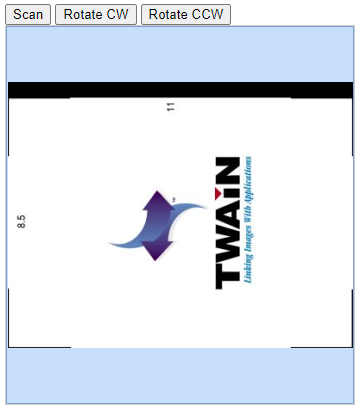
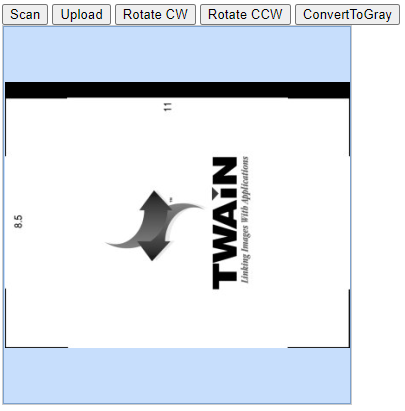
EndToEnd screenshots

Changed region(s): [[0.0, 0.0, 1.0, 0.9976], [0.2758, 0.3814, 0.7047, 0.7042]]

diff --git a/getstarted/editing.md b/getstarted/editing.md
@@ -14,52 +14,9 @@ permalink: /getstarted/editing.html
 <div class='blockquote-note'></div>
 > This article is part of our HelloWorld series. If you have not already reviewed HelloWorld, please start [here]({{site.getstarted}}helloworld.html)
 
-DWT offers a number of ways to manipulate images before exporting the images to a file. These include but are not limited to rotation, cutting, and resizing. For this example, you will be rotating an image and converting it to grayscale.
+DWT offers a number of ways to manipulate images before exporting the images to a file. These include but are not limited to rotation, cutting, and resizing. For this example, you will be converting an image to grayscale, and rotating the image.
 
 <!-- For the quick guide on available APIs, please see [ImageEditing]({{site.indepth}}features/edit.html){:target="_blank" rel="noreferrer noopener"} -->
-
-## Rotating images
-
-### Add Rotate buttons in HTML
-
-```html
-<input type="button" value="Rotate CW" onclick="RotateCW();" />
-<input type="button" value="Rotate CCW" onclick="RotateCCW();" />
-```
-
-### Add functions to perform rotation on the current image
-
-```js
-function RotateCW(){
-    DWObject.RotateRight(DWObject.CurrentImageIndexInBuffer);
-}
-function RotateCCW(){
-    DWObject.RotateLeft(DWObject.CurrentImageIndexInBuffer);
-}
-```
-
-Links to API Reference:
-
-- [`RotateRight()`]({{site.info}}api/WebTwain_Edit.html#rotateright){:target="_blank" rel="noreferrer noopener"}
-- [`RotateLeft()`]({{site.info}}api/WebTwain_Edit.html#rotateleft){:target="_blank" rel="noreferrer noopener"}
-- [`CurrentImageIndexInBuffer`]({{site.info}}api/WebTwain_Buffer.html#currentimageindexinbuffer){:target="_blank" rel="noreferrer noopener"}
-
-### Test out the rotation
-
-Using your new buttons, scan an image and use your new buttons to rotate the image.
-
-The scan:
-
-![HelloWorldEditRotate1]({{site.assets}}imgs/HelloWorldEditRotate1.png)
-
-Rotating the original scan once using the RotateCW button:
-
-![HelloWorldEditRotate2]({{site.assets}}imgs/HelloWorldEditRotate2.png)
-
-Rotating the original scan once using the RotateCCW button:
-
-![HelloWorldEditRotate3]({{site.assets}}imgs/HelloWorldEditRotate3.png)
-
 
 ## Converting image to grayscale
 
@@ -67,20 +24,6 @@ Rotating the original scan once using the RotateCCW button:
 ```html
 <input type="button" value="ConvertToGray" onclick="ConvertToGray();" />
 ```
-
-### Add the function to do the colour conversion
-
-```js
-function ConvertToGray(){
-    DWObject.ConvertToGrayScale(DWObject.CurrentImageIndexInBuffer);
-}
-```
-
-Links to API Reference:
-
-- [`ConvertToGrayScale()`]({{site.info}}api/WebTwain_Edit.html#converttograyscale){:target="_blank" rel="noreferrer noopener"}
-- [`CurrentImageIndexInBuffer`]({{site.info}}api/WebTwain_Buffer.html#currentimageindexinbuffer){:target="_blank" rel="noreferrer noopener"}
-
 
 ### Change the scan setting
 
@@ -114,15 +57,44 @@ Links to API Reference:
 - [`Resolution`]({{site.info}}api/WebTwain_Acquire.html#resolution){:target="_blank" rel="noreferrer noopener"}
 - [`CloseSourceAsync()`]({{site.info}}api/WebTwain_Acquire.html#closesourceasync){:target="_blank" rel="noreferrer noopener"}
 
-### Test out the colour conversion
+### Add the function to do the colour conversion
 
-This is the scan after changing the `PixelType` to `TWPT_RGB`:
+```js
+function ConvertToGray(){
+    DWObject.ConvertToGrayScale(DWObject.CurrentImageIndexInBuffer);
+}
+```
 
-![HelloWorldEditGrayscale1]({{site.assets}}imgs/HelloWorldEditGrayscale1.png)
+Links to API Reference:
 
-Click the ConvertToGray button and the image will change to grayscale:
+- [`ConvertToGrayScale()`]({{site.info}}api/WebTwain_Edit.html#converttograyscale){:target="_blank" rel="noreferrer noopener"}
+- [`CurrentImageIndexInBuffer`]({{site.info}}api/WebTwain_Buffer.html#currentimageindexinbuffer){:target="_blank" rel="noreferrer noopener"}
 
-![HelloWorldEditGrayscale2]({{site.assets}}imgs/HelloWorldEditGrayscale2.png)
+## Rotating images
+
+### Add Rotate buttons in HTML
+
+```html
+<input type="button" value="Rotate CW" onclick="RotateCW();" />
+<input type="button" value="Rotate CCW" onclick="RotateCCW();" />
+```
+
+### Add functions to perform rotation on the current image
+
+```js
+function RotateCW(){
+    DWObject.RotateRight(DWObject.CurrentImageIndexInBuffer);
+}
+function RotateCCW(){
+    DWObject.RotateLeft(DWObject.CurrentImageIndexInBuffer);
+}
+```
+
+Links to API Reference:
+
+- [`RotateRight()`]({{site.info}}api/WebTwain_Edit.html#rotateright){:target="_blank" rel="noreferrer noopener"}
+- [`RotateLeft()`]({{site.info}}api/WebTwain_Edit.html#rotateleft){:target="_blank" rel="noreferrer noopener"}
+- [`CurrentImageIndexInBuffer`]({{site.info}}api/WebTwain_Buffer.html#currentimageindexinbuffer){:target="_blank" rel="noreferrer noopener"}
 
 ## Review the completed code
 
@@ -137,9 +109,11 @@ Click the ConvertToGray button and the image will change to grayscale:
 
 <body>
     <input type="button" value="Scan" onclick="AcquireImage();" />
+    <input type="button" value="Upload" onclick="Upload();" />
     <input type="button" value="Rotate CW" onclick="RotateCW();" />
     <input type="button" value="Rotate CCW" onclick="RotateCCW();" />
     <input type="button" value="ConvertToGray" onclick="ConvertToGray();" />
+
 
     <div id="dwtcontrolContainer"></div>
 
@@ -153,16 +127,34 @@ Click the ConvertToGray button and the image will change to grayscale:
         function AcquireImage() {
             if (DWObject) {
                 DWObject.SelectSourceAsync()
-                    .then(() => DWObject.AcquireImageAsync({
-                        IfShowUI: false,
+                    .then(() => DWObject.AcquireImageAsync({ 
                         IfDisableSourceAfterAcquire: true,
+                        IfShowUI: false,
                         PixelType: Dynamsoft.DWT.EnumDWT_PixelType.TWPT_RGB,
                         Resolution: 150,
-                    }))
+                        }))
                     .then(result => console.log(result))
                     .catch(exp => console.error(exp.message))
                     .finally(() => DWObject.CloseSourceAsync().catch(e => console.error(e)));
             }
+        }
+        function Upload() {
+            if (DWObject && DWObject.HowManyImagesInBuffer > 0) {
+                var strUrl = "https://demo.dynamsoft.com/sample-uploads/";
+                var aryIndex = [DWObject.CurrentImageIndexInBuffer];
+                DWObject.HTTPUpload(strUrl, aryIndex, Dynamsoft.DWT.EnumDWT_ImageType.IT_PNG,
+                    Dynamsoft.DWT.EnumDWT_UploadDataFormat.Binary, "WebTWAINImage.png", onUploadSuccess, onUploadFailure);
+            } else {
+                alert("There is no image in buffer.");
+            }
+        }
+
+        function onUploadSuccess() {
+            alert('Upload successful');
+        }
+
+        function onUploadFailure(errorCode, errorString, sHttpResponse) {
+            alert(sHttpResponse.length > 0 ? sHttpResponse : errorString);
         }
 
         function RotateCW(){
@@ -196,6 +188,39 @@ Links to API Reference:
 - [`CurrentImageIndexInBuffer`]({{site.info}}api/WebTwain_Buffer.html#currentimageindexinbuffer){:target="_blank" rel="noreferrer noopener"}
 
 ## Run the application
+
+### Open the application in your browser
+
+![HelloWorldEditGrayscale1]({{site.assets}}imgs/HelloWorldEdit.png)
+
+### Press the Scan button
+
+Since the `PixelType` was changed to `TWPT_RGB`, the recieved image is in colour.
+
+![HelloWorldEditGrayscale1]({{site.assets}}imgs/HelloWorldEditGrayscale1.png)
+
+### Convert the image to grayscale
+
+
+Click the ConvertToGray button and the image will change to grayscale:
+
+![HelloWorldEditGrayscale2]({{site.assets}}imgs/HelloWorldEditGrayscale2.png)
+
+### Rotate the image
+
+Using the Rotate CW and Rotate CCW buttons, rotate the image.
+
+<!-- The scan:
+
+![HelloWorldEditRotate1]({{site.assets}}imgs/HelloWorldEditRotate1.png) -->
+
+* Rotating the original converted grayscale image once using the RotateCW button:
+
+![HelloWorldEditRotate2]({{site.assets}}imgs/HelloWorldEditRotate2.png)
+
+* Rotating the original converted grayscale image once using the RotateCCW button:
+
+![HelloWorldEditRotate3]({{site.assets}}imgs/HelloWorldEditRotate3.png)
 
 # Previous Article
 

diff --git a/getstarted/helloworld.md b/getstarted/helloworld.md
@@ -100,8 +100,8 @@ function AcquireImage() {
 Links to API Reference:
 
 - [`SelectSourceAsync()`]({{site.info}}api/WebTwain_Acquire.html#selectsourceasync){:target="_blank" rel="noreferrer noopener"}
-- [`IfDisableSourceAfterAcquire`]({{site.info}}api/WebTwain_Acquire.html#ifdisablesourceafteracquire){:target="_blank" rel="noreferrer noopener"}
 - [`AcquireImageAsync()`]({{site.info}}api/WebTwain_Acquire.html#acquireimageasync){:target="_blank" rel="noreferrer noopener"}
+- [`IfDisableSourceAfterAcquire`]({{site.info}}api/WebTwain_Acquire.html#ifdisablesourceafteracquire){:target="_blank" rel="noreferrer noopener"}
 - [`CloseSourceAsync()`]({{site.info}}api/WebTwain_Acquire.html#closesourceasync){:target="_blank" rel="noreferrer noopener"}
 
 ## Review the code
@@ -148,25 +148,32 @@ At this point, our HelloWorld code should look like this:
 
 ## Run the HelloWorld application
 
-* Open the page in your browser
+### Open the page in your browser
 
-  ![Build-the-Hello-World-Scan-Page-3]({{site.assets}}imgs/Build-the-Hello-World-Scan-Page-3.png)
+![Build-the-Hello-World-Scan-Page-3]({{site.assets}}imgs/Build-the-Hello-World-Scan-Page-3.png)
 
-  > If you see a license notice, please make sure you have a valid license. Open `dynamsoft.webtwain.config.js` and ensure  that you have a licence defined at `Dynamsoft.DWT.ProductKey`. If you need further assistance, please contact [Dynamsoft Support]({{site.about}}getsupport.html).
+> If you see a license notice, please make sure you have a valid license. Open `dynamsoft.webtwain.config.js` and ensure  that you have a licence defined at `Dynamsoft.DWT.ProductKey`. If you need further assistance, please contact [Dynamsoft Support]({{site.about}}getsupport.html).
 
-* Press the Scan button
+### Press the Scan button
 
-  After pressing the Scan button, you will be presented with the Select Source dialog. Select your scanner and press the Select button.
+After pressing the Scan button, you will be presented with the Select Source dialog. Select your scanner and press the Select button. 
 
-  ![Build-the-Hello-World-Scan-Page-4]({{site.assets}}imgs/Build-the-Hello-World-Scan-Page-4.png)
+![Build-the-Hello-World-Scan-Page-4]({{site.assets}}imgs/Build-the-Hello-World-Scan-Page-4.png)
 
-  > Only TWAIN / WIA / ICA / SANE compliant devices are listed in the Select Source dialog. If your connected scanner doesn't show up in the list, please make sure the proper driver is installed. If you are using Windows and don't have a physical scanner on hand, you may install the [Virtual Scanner](https://www.dynamsoft.com/web-twain/docs/faq/download-virtual-scanner-for-testing.html) – a scanner simulator which is developed by the [TWAIN Working Group](https://www.twain.org/) for testing purposes.
+> Only TWAIN / WIA / ICA / SANE compliant devices are listed in the Select Source dialog. If your connected scanner doesn't show up in the list, please make sure the proper driver is installed. If you are using Windows and don't have a physical scanner on hand, you may install the [Virtual Scanner](https://www.dynamsoft.com/web-twain/docs/faq/download-virtual-scanner-for-testing.html) – a scanner simulator which is developed by the [TWAIN Working Group](https://www.twain.org/) for testing purposes.
 
-<!-- * Scanner UI -->
+### Scanner UI
 
-* After the scanner finishes scanning, the scanned documents will show up in the viewer
+You will be then presented with your scanner's built in interface. Please initiate a scan from this dialog. Your scanner's interface may differ from the provided screenshot.
 
-  ![Build-the-Hello-World-Scan-Page-5]({{site.assets}}imgs/Build-the-Hello-World-Scan-Page-5.png)
+![Build-the-Hello-World-Scan-Page-UI]({{site.assets}}imgs/Build-the-Hello-World-Scan-Page-UI.png)
+
+
+###  View the scanned image
+
+After the scanner finishes scanning, the scanned documents will show up in the viewer
+
+![Build-the-Hello-World-Scan-Page-5]({{site.assets}}imgs/Build-the-Hello-World-Scan-Page-5.png)
 
 <!-- # Further information
 

diff --git a/getstarted/scansettings.md b/getstarted/scansettings.md
@@ -96,6 +96,8 @@ Links to API Reference:
 
 <body>
     <input type="button" value="Scan" onclick="AcquireImage();" />
+    <input type="button" value="Upload" onclick="Upload();" />
+
     <div id="dwtcontrolContainer"></div>
 
     <script type="text/javascript">
@@ -108,34 +110,55 @@ Links to API Reference:
         function AcquireImage() {
             if (DWObject) {
                 DWObject.SelectSourceAsync()
-                    .then(() => DWObject.AcquireImageAsync({
+                    .then(() => DWObject.AcquireImageAsync({ 
                         IfDisableSourceAfterAcquire: true,
                         IfShowUI: false,
                         PixelType: Dynamsoft.DWT.EnumDWT_PixelType.TWPT_GRAY,
                         Resolution: 150,
-                    }))
+                        }))
                     .then(result => console.log(result))
                     .catch(exp => console.error(exp.message))
                     .finally(() => DWObject.CloseSourceAsync().catch(e => console.error(e)));
             }
         }
+        function Upload() {
+            if (DWObject && DWObject.HowManyImagesInBuffer > 0) {
+                var strUrl = "https://demo.dynamsoft.com/sample-uploads/";
+                var aryIndex = [DWObject.CurrentImageIndexInBuffer];
+                DWObject.HTTPUpload(strUrl, aryIndex, Dynamsoft.DWT.EnumDWT_ImageType.IT_PNG,
+                    Dynamsoft.DWT.EnumDWT_UploadDataFormat.Binary, "WebTWAINImage.png", onUploadSuccess, onUploadFailure);
+            } else {
+                alert("There is no image in buffer.");
+            }
+        }
+
+        function onUploadSuccess() {
+            alert('Upload successful');
+        }
+
+        function onUploadFailure(errorCode, errorString, sHttpResponse) {
+            alert(sHttpResponse.length > 0 ? sHttpResponse : errorString);
+        }
+
     </script>
 </body>
 
 </html>
-
 ```
 
 ## Run the application
-<!-- 
-The Scan result without adding the parameters:
 
-![HelloWorld-Scan-NoSettings]({{site.assets}}imgs\HelloWorldScanSetting1.png) -->
+### Open the application in your browser
 
-The Scan result with the added parameters:
+![HelloWorld-Scan-1]({{site.assets}}imgs\HelloWorldScanSetting1.png)
 
-![HelloWorld-Scan-NoSettings]({{site.assets}}imgs\HelloWorldScanSetting2.png)
+### Press the Scan button
 
+### View the scan
+
+With the added parameters, you should receive a grayscale image
+
+![HelloWorld-Scan-2]({{site.assets}}imgs\HelloWorldScanSetting2.png)
 
 # Previous Article
 

diff --git a/getstarted/uploading.md b/getstarted/uploading.md
@@ -21,7 +21,7 @@ After scanning your document, you may want to upload the scanned documents to a 
 <input type="button" value="Upload" onclick="Upload();" />
 ```
 
-## Write the upload function and the associate call back functions
+## Write the Upload function and the associated callback functions
 
 ``` javascript
 function Upload() {
@@ -122,19 +122,27 @@ After adding all the functions, the complete HelloWorld application should look 
 
 ## Run the application
 
-Scan a document
+### Open the application in your browser
+
+![HelloWorldUpload0]({{site.assets}}imgs/HelloWorldUpload0.png)
+
+### Scan a document
 
 ![HelloWorldUpload1]({{site.assets}}imgs/HelloWorldUpload1.png)
 
-Upload the document
+### Upload the image
+
+After uploading, you should receive the Upload successful message
 
 ![HelloWorldUpload2]({{site.assets}}imgs/HelloWorldUpload2.png)
 
 
 
-# Additional information
+**Additional information**
 
-For the purposes of this guide, a Dynamsoft hosted end point is used, but for your own application you will need to create your own end point. Please see [this guide <<link does not work yet as article is not yet written>>]() for creating your own endpoint.
+For the purposes of this guide, a Dynamsoft hosted end point is used, but for your own application you will need to create your own end point. 
+
+<!-- Please see [this guide <<link does not work yet as article is not yet written>>]() for creating your own endpoint. -->
 
 **Samples Applications**
 - [Try the Scan Documents + Upload demo](https://demo.dynamsoft.com/Samples/dwt/Scan-Documents-and-Upload-Them/DWT_Scan_Upload_Demo.html){:target="_blank" rel="noreferrer noopener"}
